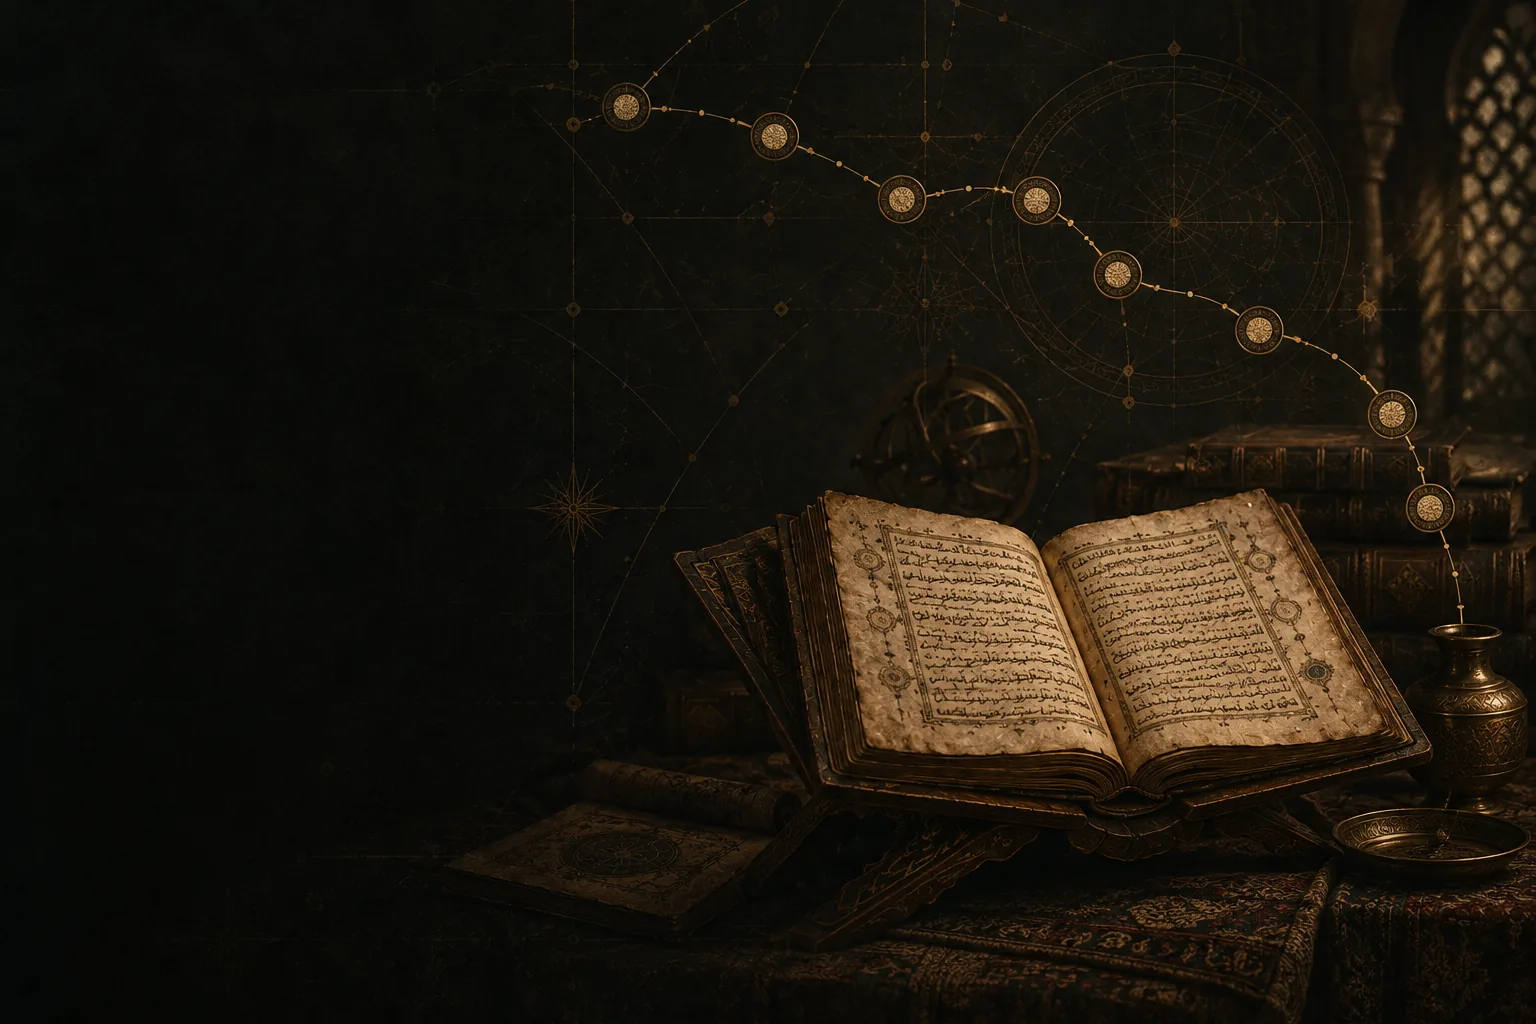
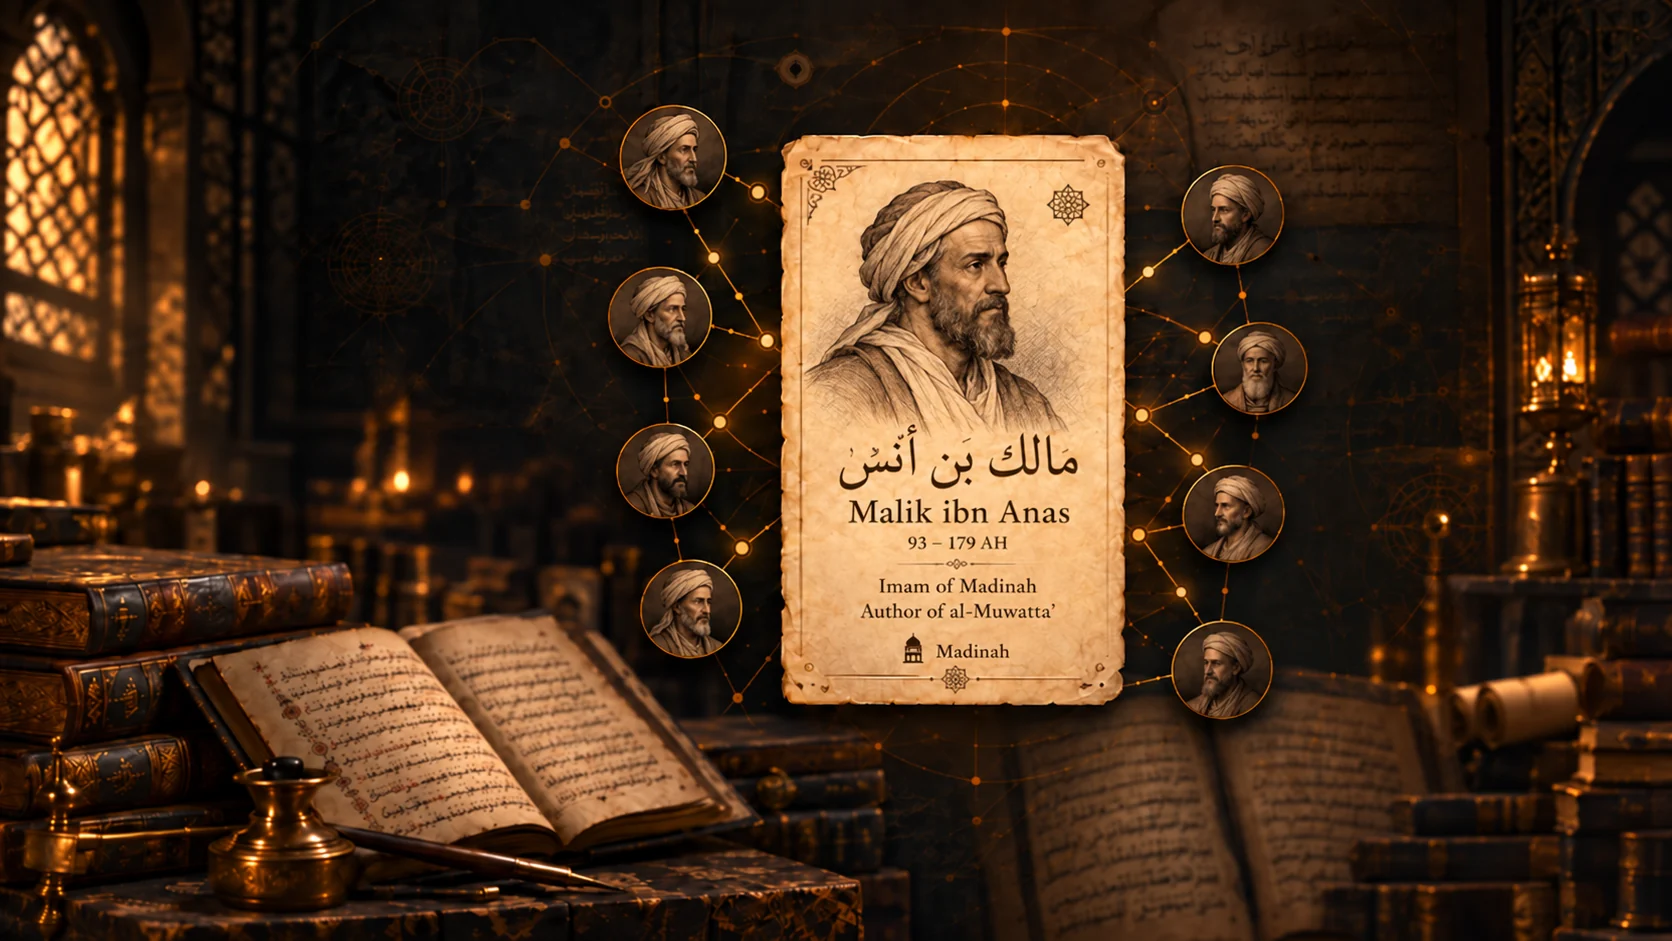
Commit remaining thumbnail and project updates

diff --git a/thumbnail-mapper.html b/thumbnail-mapper.html
@@ -1,0 +1,30 @@
+<!doctype html>
+<html lang="en"><head><meta charset="utf-8"><meta name="viewport" content="width=device-width,initial-scale=1"><title>YouTube thumbnail mapper</title>
+<style>
+:root{color-scheme:dark;--bg:#111110;--panel:#1c1b19;--line:#4c402a;--gold:#d8b166;--text:#f2ebdc;--muted:#b8ad99}*{box-sizing:border-box}body{margin:0;background:var(--bg);color:var(--text);font:15px/1.45 system-ui,sans-serif}header{position:sticky;top:0;z-index:5;background:#111110f2;border-bottom:1px solid var(--line);padding:16px 22px;display:flex;gap:18px;align-items:center;flex-wrap:wrap}h1{font:600 20px Georgia,serif;margin:0;color:var(--gold)}header p{margin:2px 0 0;color:var(--muted);font-size:13px}.brand{margin-right:auto}button,input{font:inherit}button{border:1px solid var(--line);background:#28251f;color:var(--text);padding:9px 13px;border-radius:5px;cursor:pointer}button:hover{border-color:var(--gold)}button.primary{background:var(--gold);color:#181512;font-weight:700}.toolbar{display:flex;gap:8px;flex-wrap:wrap}main{display:grid;grid-template-columns:minmax(280px,34%) 1fr;min-height:calc(100vh - 80px)}aside{padding:18px;border-right:1px solid var(--line);position:sticky;top:83px;height:calc(100vh - 83px);overflow:auto}.videos{padding:18px;max-width:1200px;width:100%;margin:auto}.section-head{display:flex;align-items:center;justify-content:space-between;gap:8px;margin-bottom:12px}.section-head h2{font:600 16px Georgia,serif;margin:0}.section-head small{color:var(--muted)}input[type=search]{width:100%;background:#1a1917;border:1px solid var(--line);border-radius:5px;padding:10px;color:var(--text);margin:0 0 12px}.thumb-grid{display:grid;grid-template-columns:1fr 1fr;gap:10px}.thumb{border:1px solid #38332a;background:var(--panel);border-radius:5px;overflow:hidden;cursor:grab;position:relative}.thumb:active{cursor:grabbing}.thumb img{display:block;width:100%;aspect-ratio:16/9;object-fit:cover}.thumb span{display:block;padding:6px 8px;font:12px ui-monospace,monospace;color:var(--muted);overflow-wrap:anywhere}.thumb .used{position:absolute;top:5px;left:5px;background:var(--gold);color:#181512;border-radius:3px;padding:2px 5px;font-size:10px;font-weight:700}.video{display:grid;grid-template-columns:minmax(120px,220px) minmax(0,1fr);gap:15px;align-items:center;padding:12px;border:1px solid #39352e;border-radius:5px;background:var(--panel);margin:0 0 10px;min-height:136px}.video.dragover{outline:2px solid var(--gold);background:#2a261e}.slot{border:1px dashed #6b5b3c;border-radius:4px;min-height:108px;display:grid;place-items:center;color:var(--muted);text-align:center;overflow:hidden}.slot img{width:100%;height:100%;max-height:130px;object-fit:cover;display:block}.meta h3{font:600 16px/1.3 Georgia,serif;margin:0 0 7px}.meta code{color:var(--gold);font-size:12px}.drop-hint{font-size:12px;color:var(--muted);margin-top:8px}.assigned-name{font:12px ui-monospace,monospace;color:var(--muted);overflow-wrap:anywhere}.empty{padding:16px;color:var(--muted);border:1px dashed var(--line)}.status{color:var(--gold);font-size:13px;min-width:90px}@media(max-width:760px){main{display:block}aside{position:static;height:auto;max-height:none;border-right:0;border-bottom:1px solid var(--line)}.thumb-grid{grid-template-columns:repeat(3,1fr)}.videos{padding:12px}.video{grid-template-columns:120px 1fr}.slot{min-height:72px}}@media(max-width:460px){.thumb-grid{grid-template-columns:1fr 1fr}.video{grid-template-columns:100px 1fr;gap:10px}.meta h3{font-size:14px}}
+</style></head><body>
+<header><div class="brand"><h1>Video thumbnail mapper</h1><p>Drag each WebP thumbnail onto its matching video. Your assignments save in this browser.</p></div><span class="status" id="status">No assignments</span><div class="toolbar"><button id="export" class="primary">Download mapping JSON</button><button id="import">Import mapping</button><input id="file" type="file" accept=".json,application/json" hidden><button id="clear">Clear all</button></div></header>
+<main><aside><div class="section-head"><h2>WebP thumbnails</h2><small id="asset-count"></small></div><input id="thumb-search" type="search" placeholder="Filter thumbnails by filename"><div id="thumbs" class="thumb-grid"></div></aside><section class="videos"><div class="section-head"><h2>Videos</h2><small id="video-count"></small></div><input id="video-search" type="search" placeholder="Filter videos by title or ID"><div id="video-list"></div></section></main>
+<script>
+const videos=[{"id":"6bpJBji3E0M","title":"The Truth About 'The Crucifixion of Jesus'"},{"id":"HWHjCfaPn_0","title":"Hadith Can Never Reach Epistemological Certainty."},{"id":"xhDQSpYjqQ8","title":"Refuting OrthodoxMuslim & His Baghdad Failures"},{"id":"2sgC2CaJxqk","title":"The FAILED Baghdad Hadith Prophecy That Never Was"},{"id":"MLaRB6uGhAk","title":"How One Quranic Story Refutes All Sunni Jurisprudence"},{"id":"YTMWY2wsmNA","title":"Your Imam Can't Outrule God's Words (Refutation of Imām al-Shāfiʿī)"},{"id":"O79Y4X4tcyM","title":"The Anatomy of Hypocrisy"},{"id":"boG5JTD5yXU","title":"Your Sheikh Can't Save You from God"},{"id":"3B0rnPGWgKU","title":"The Scholars Contradict In Gradings of Hadith (Sahih/Da'if)"},{"id":"viBQWnMRLfU","title":"The Slave of Ibn ʿAbbās FOOLED Imām al-Bukhārī"},{"id":"CG5i14GAZTQ","title":"The Sciences of Hadīth are a Joke."},{"id":"vqaXqm_sRPE","title":"Bukhari Collected Hadith From Shia"},{"id":"5nJCg3j9SG4","title":"Imam Al Ghazali Annihilating Hadith Scholars For Over 8 Minutes Straight"},{"id":"w0RPjI0mr-E","title":"The Prophet Was NOT Bewitched"},{"id":"McqWF6Kzjpk","title":"The Prophesied Hasanid Mahdi"},{"id":"y-_RBOAF47c","title":"Contradicting Hadith & Nawawi's Authentic Cope."},{"id":"2LQS8gUXsO4","title":"Fabrication: If a Woman Rules, That Nation Will Not Prosper."},{"id":"dgm5LIxdLR4","title":"The Fabricated Prophecy: You Shall Conquer Constantinople"},{"id":"eNBjCFQ1IV0","title":"Fabrication: Angels Curse Women Who Don't Sleep With Their Husbands."},{"id":"EzyCSdCehXQ","title":"Did Muhammad Split the Moon?"},{"id":"T73hFVA9ND0","title":"The End Time Dajjal Narrations Are False."},{"id":"L5Rh1atEgBo","title":"Offensive Jihad? Abrogation in the Quran? - Debate"},{"id":"y9p3g0DM7tc","title":"Muhammad vs Cademon - The Story of The First Revelation"},{"id":"n1s7SGMrRhM","title":"Can Hadith Really Compete with Archaeology? A Sunni Faces the Harsh Truth - Debate"},{"id":"pFz9enPywrk","title":"Did Bukhari Authenticate Falsehood? - Testing the Sciences of Hadith"},{"id":"3vdO5CSCu88","title":"Hadith & Shahada - Debate"},{"id":"sIAJ_5rbCOU","title":"The Historical Argument Against 9:128 & 129 - An Analysis of the Hadith Corpus"},{"id":"1p2S5dm09eU","title":"The Satanic Verses - An Analysis of The Hadith Corpus"},{"id":"PCjq1nJCvRk","title":"Debate: The Testimony of God, His angels, and the Owners of Knowledge (3:18) pt.1"},{"id":"-wAazn82zTg","title":"Is The Prophet Muhammad An Idol? (Sunni-Traditionalist vs Submitters)"},{"id":"Lp-r5xcZEu4","title":"Apostasy - An Analysis of The Hadith Corpus"},{"id":"CACgVlRtEB0","title":"Are Hadith the Words of The Prophet? RefutingOrientalist Rage Quits."},{"id":"eaF0HN9gEJE","title":"The Zubayrid Mahdi - An Analysis of The Hadith Corpus"},{"id":"kqa4L76ykCY","title":"Dietary Prohibitions Debate (Submitters vs Hanafis)"},{"id":"8uuFjNrQZBo","title":"RefutingOrientalists Gets Refuted...By an Orientalist"},{"id":"j59Da8uGsck","title":"Jerusalem in The Islamic Tradition - An Analysis of The Hadith Corpus"},{"id":"6EWsciMiXg8","title":"The Second Coming of Jesus in Syria - An Analysis of the Hadith Corpus"},{"id":"lBK70hjlMg0","title":"Hadith Reliability and Salawat Upon the Prophet Muhammad (Navid, Dude, Jonathan)"}];
+const assets=["thumbnail-03.webp","thumbnail-23.webp","yt-2LQS8gUXsO4.webp","yt-2sgC2CaJxqk.webp","yt-3B0rnPGWgKU.webp","yt-5nJCg3j9SG4.webp","yt-6bpJBji3E0M.webp","yt-CG5i14GAZTQ.webp","yt-EzyCSdCehXQ.webp","yt-HWHjCfaPn_0.webp","yt-MLaRB6uGhAk.webp","yt-McqWF6Kzjpk.webp","yt-O79Y4X4tcyM.webp","yt-T73hFVA9ND0.webp","yt-YTMWY2wsmNA.webp","yt-boG5JTD5yXU.webp","yt-dgm5LIxdLR4.webp","yt-eNBjCFQ1IV0.webp","yt-viBQWnMRLfU.webp","yt-vqaXqm_sRPE.webp","yt-w0RPjI0mr-E.webp","yt-xhDQSpYjqQ8.webp","yt-y-_RBOAF47c.webp"];
+const STORAGE='hadithcritic-thumbnail-mapper-v1';
+let mapping={};try{mapping=JSON.parse(localStorage.getItem(STORAGE)||'{}')}catch{};for(const [id,name] of Object.entries(mapping))if(!assets.includes(name)||!videos.some(v=>v.id===id))delete mapping[id];
+const enc=s=>encodeURIComponent(s);
+const thumbEl=(file)=>{const el=document.createElement('img');el.src='./public/images/yt%20tn/'+enc(file);el.alt=file;return el};
+function save(){localStorage.setItem(STORAGE,JSON.stringify(mapping));render();}
+function render(){
+ const q=document.querySelector('#thumb-search').value.toLowerCase();const tq=document.querySelector('#video-search').value.toLowerCase();
+ const gallery=document.querySelector('#thumbs');gallery.replaceChildren();let shown=0;
+ for(const file of assets){if(!file.toLowerCase().includes(q))continue;shown++;const card=document.createElement('div');card.className='thumb';card.draggable=true;card.dataset.file=file;card.addEventListener('dragstart',e=>{e.dataTransfer.setData('text/plain',file);e.dataTransfer.effectAllowed='copy'});card.append(thumbEl(file));const label=document.createElement('span');label.textContent=file;card.append(label);const owners=Object.entries(mapping).filter(([,v])=>v===file).map(([id])=>id);if(owners.length){const badge=document.createElement('b');badge.className='used';badge.textContent='ASSIGNED';card.append(badge)}gallery.append(card)}
+ if(!shown){const empty=document.createElement('div');empty.className='empty';empty.textContent='No matching thumbnails.';gallery.append(empty)}
+ const list=document.querySelector('#video-list');list.replaceChildren();let count=0;
+ for(const video of videos){if(!(video.title+' '+video.id).toLowerCase().includes(tq))continue;count++;const row=document.createElement('article');row.className='video';row.dataset.id=video.id;const slot=document.createElement('div');slot.className='slot';const file=mapping[video.id];if(file&&assets.includes(file)){slot.append(thumbEl(file))}else{slot.textContent='Drop the matching thumbnail here'}row.addEventListener('dragover',e=>{e.preventDefault();row.classList.add('dragover');e.dataTransfer.dropEffect='copy'});row.addEventListener('dragleave',()=>row.classList.remove('dragover'));row.addEventListener('drop',e=>{e.preventDefault();row.classList.remove('dragover');const picked=e.dataTransfer.getData('text/plain');if(assets.includes(picked)){mapping[video.id]=picked;save()}});const meta=document.createElement('div');meta.className='meta';const h=document.createElement('h3');h.textContent=video.title;const id=document.createElement('code');id.textContent=video.id;meta.append(h,id);if(file){const name=document.createElement('div');name.className='assigned-name';name.textContent=file;meta.append(name);const clear=document.createElement('button');clear.textContent='Remove';clear.style.marginTop='8px';clear.addEventListener('click',()=>{delete mapping[video.id];save()});meta.append(clear)}else{const hint=document.createElement('div');hint.className='drop-hint';hint.textContent='Drop a thumbnail on this video';meta.append(hint)}row.append(slot,meta);list.append(row)}
+ document.querySelector('#asset-count').textContent=assets.length+' files';document.querySelector('#video-count').textContent=count+' shown / '+videos.length+' videos';const n=Object.keys(mapping).length;document.querySelector('#status').textContent=n+' assigned';
+}
+document.querySelector('#thumb-search').addEventListener('input',render);document.querySelector('#video-search').addEventListener('input',render);
+document.querySelector('#export').addEventListener('click',()=>{const blob=new Blob([JSON.stringify({mapping,exportedAt:new Date().toISOString()},null,2)],{type:'application/json'});const a=document.createElement('a');a.href=URL.createObjectURL(blob);a.download='youtube-thumbnail-mapping.json';a.click();URL.revokeObjectURL(a.href)});
+document.querySelector('#import').addEventListener('click',()=>document.querySelector('#file').click());document.querySelector('#file').addEventListener('change',async e=>{const f=e.target.files[0];if(!f)return;try{const data=JSON.parse(await f.text());mapping=data.mapping||data;for(const [id,name] of Object.entries(mapping))if(!videos.some(v=>v.id===id)||!assets.includes(name))delete mapping[id];save()}catch{alert('That JSON file could not be read.')}e.target.value=''});
+document.querySelector('#clear').addEventListener('click',()=>{if(confirm('Clear every saved assignment?')){mapping={};save()}});
+render();
+</script></body></html>

diff --git a/src/styles/project-showcase.css b/src/styles/project-showcase.css
@@ -29,6 +29,14 @@
   transition: transform 500ms var(--ease), opacity 300ms ease;
 }
 
+.project-showcase--rijal .project-showcase__art {
+  inset-inline: auto auto;
+  left: -4%;
+  width: 100%;
+  object-position: center;
+  transform: scale(0.92);
+}
+
 .project-showcase::before {
   content: "";
   position: absolute;
@@ -49,6 +57,11 @@
 .project-showcase:focus-visible .project-showcase__art {
   transform: scale(1.025);
   opacity: 1;
+}
+
+.project-showcase--rijal:hover .project-showcase__art,
+.project-showcase--rijal:focus-visible .project-showcase__art {
+  transform: scale(0.945);
 }
 
 .project-showcase__content {
